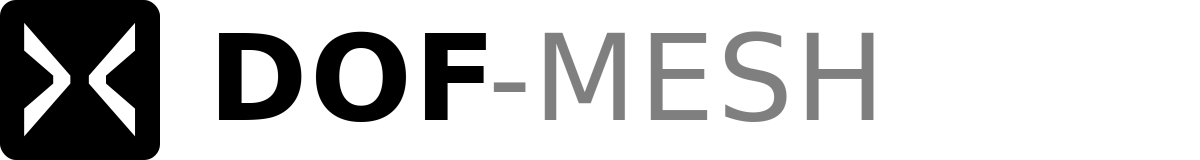
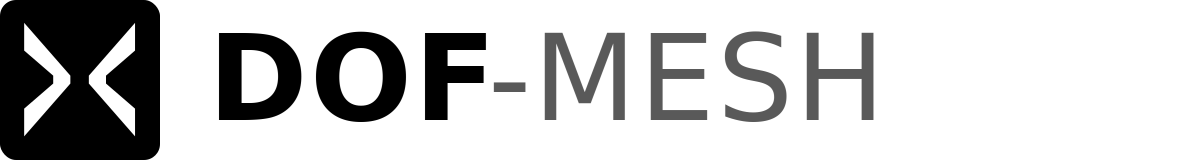
brand: DOF-MESH brand system v2.2 final — cube lockup, opacity fix

Changed region(s): [[0.4008, 0.1875, 0.74, 0.7812]]

diff --git a/public/dof-home.html b/public/dof-home.html
@@ -19,7 +19,7 @@
 <meta name="twitter:image" content="https://www.dofmesh.com/brand/dof-mesh-og-1200x630.png">
 <link rel="icon" type="image/png" sizes="32x32" href="/brand/dof-mesh-icon-cube-dark-32x32.png">
 <link rel="icon" type="image/png" sizes="16x16" href="/brand/dof-mesh-icon-cube-dark-16x16.png">
-<link rel="apple-touch-icon" sizes="128x128" href="/brand/dof-mesh-icon-cube-dark-128x128.png">
+<link rel="apple-touch-icon" href="/brand/dof-mesh-icon-cube-dark-128x128.png">
 <link rel="preconnect" href="https://fonts.googleapis.com">
 <link href="https://fonts.googleapis.com/css2?family=Plus+Jakarta+Sans:wght@700;800;900&family=DM+Sans:wght@300;400;500;600&family=JetBrains+Mono:wght@400;500;700&display=swap" rel="stylesheet">
 <style>
@@ -98,11 +98,10 @@ body.cur-hover #cur { width:4px; height:4px; opacity:.5; }
 body.cur-hover #cur2 { width:36px; height:36px; border-color:rgba(128,128,128,.55); }
 
 /* ─── WORDMARK THEME SWITCHING ─── */
-/* Default: light mode → show light wordmark */
-.logo-dark  { display: none;  }
-.logo-light { display: block; }
-[data-theme="dark"] .logo-dark  { display: block; }
-[data-theme="dark"] .logo-light { display: none;  }
+/* Default (dark): logo-dark visible, logo-light hidden via inline style */
+/* Light mode override needs !important to beat inline display values */
+[data-theme="light"] .logo-dark  { display: none  !important; }
+[data-theme="light"] .logo-light { display: block !important; }
 
 /* ─── NAV ─── */
 nav {
@@ -869,8 +868,8 @@ footer {
   <div class="nav-inner">
     <div class="nav-logo">
       <a href="/" style="display:flex;align-items:center;text-decoration:none;">
-        <img src="/brand/dof-mesh-wordmark-cube-dark.svg"  alt="DOF-MESH" height="28" class="logo-dark"  style="width:auto;" loading="eager">
-        <img src="/brand/dof-mesh-wordmark-cube-light.svg" alt="DOF-MESH" height="28" class="logo-light" style="width:auto;" loading="eager">
+        <img class="logo-dark"  src="/brand/dof-mesh-wordmark-cube-dark.svg"  alt="DOF-MESH" height="28" style="display:block;width:auto;" loading="eager">
+        <img class="logo-light" src="/brand/dof-mesh-wordmark-cube-light.svg" alt="DOF-MESH" height="28" style="display:none;width:auto;"  loading="eager">
       </a>
     </div>
     <div class="nav-links">
@@ -1550,8 +1549,8 @@ result = verifier.verify_action(
       <div>
         <div class="foot-logo">
           <a href="/" style="display:flex;align-items:center;text-decoration:none;">
-            <img src="/brand/dof-mesh-wordmark-cube-dark.svg"  alt="DOF-MESH" height="24" class="logo-dark"  style="width:auto;">
-            <img src="/brand/dof-mesh-wordmark-cube-light.svg" alt="DOF-MESH" height="24" class="logo-light" style="width:auto;">
+            <img class="logo-dark"  src="/brand/dof-mesh-wordmark-cube-dark.svg"  alt="DOF-MESH" height="28" style="display:block;width:auto;">
+            <img class="logo-light" src="/brand/dof-mesh-wordmark-cube-light.svg" alt="DOF-MESH" height="28" style="display:none;width:auto;">
           </a>
         </div>
         <p class="foot-desc" data-t="foot_desc">Deterministic Observability Framework. Infraestructura soberana para agentes autónomos. Enigma Group, Medellín.</p>
